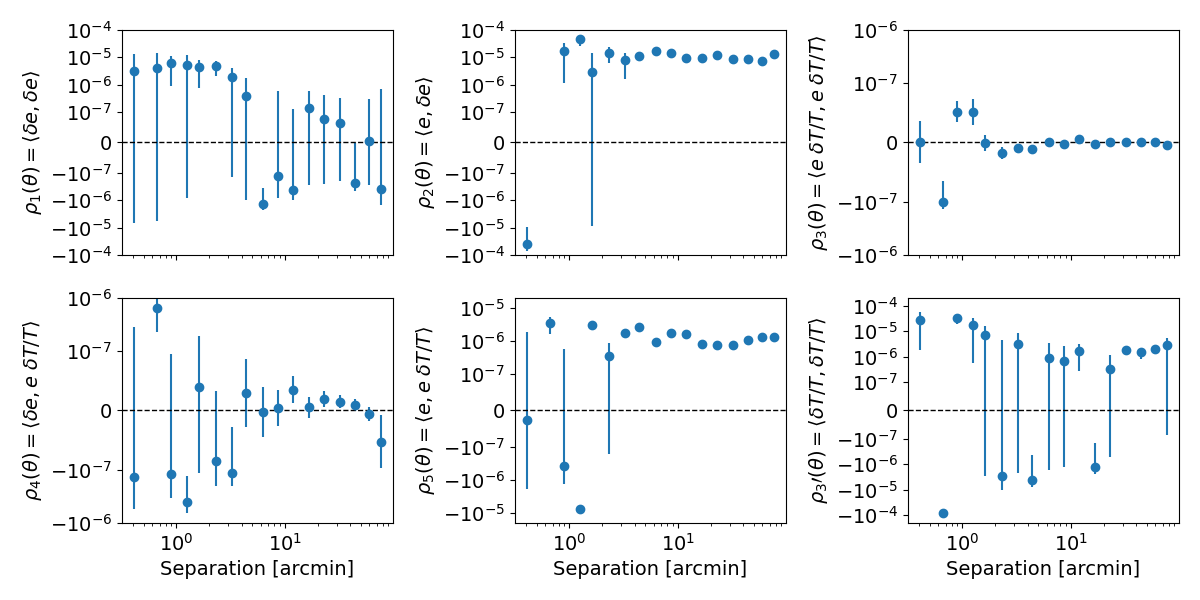
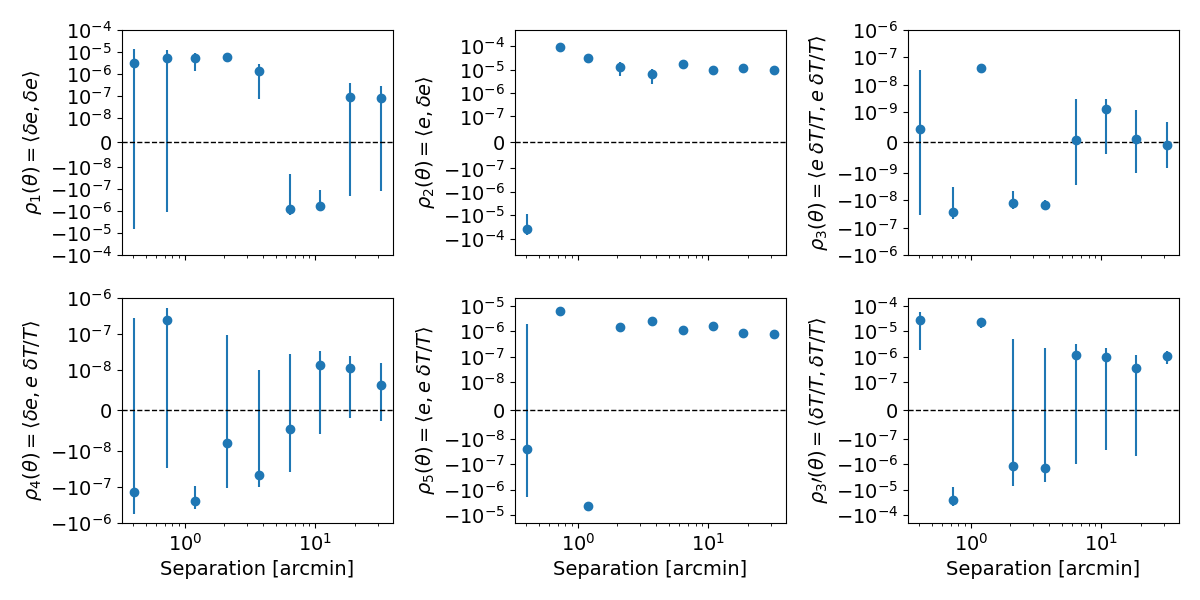
rho-statistics discussion

diff --git a/SITCOMTN-161.tex b/SITCOMTN-161.tex
@@ -189,9 +189,13 @@ Figure~{\ref{fig:res_profile}} shows the corresponding binned radial profile (an
 
 
 \subsection{PSF rho-statistics}
-The $\rho$-statistics \citep{2010MNRAS.404..350R, 2016MNRAS.460.2245J} are a set of two-point correlation functions involving PSF ellipticity and size residuals. They quantify spatially-correlated errors in PSF modeling and contributions from PSF leakage, that yield additive biases to the shear estimation. We use the LSST Science Pipelines \code{analysis\_tools}\footnote{\url{https://pipelines.lsst.io/v/daily/modules/lsst.analysis.tools}} implementation to compute the $\rho$-statistics, which internally relies on the TreeCorr software package \citep{2015ascl.soft08007J} for the correlation function calculations. The definitions of the $\rho$-statistics as calculated by \code{analysis\_tools} are documented in the LSST science pipelines and include the $\rho_1$ to $\rho_5$ originally introduced by \citet{2010MNRAS.404..350R, 2016MNRAS.460.2245J}, as well as $\rho_{3^\prime}$ defined in the context of cluster analysis by \citet{2015MNRAS.449.2219M}.
+The $\rho$-statistics \citep{2010MNRAS.404..350R, 2016MNRAS.460.2245J} are a set of two-point correlation functions involving PSF ellipticity and size residuals, $\delta e$ and $\delta T$. They quantify spatially-correlated errors in PSF modeling and contributions from PSF leakage, that yield additive biases to the shear estimation. These statistics are particularly relevant to cosmic shear studies and specific requirements have been in this context in the litterature (e.g., \citealp{2018PASJ...70S..25M, 2022PASJ...74..421L} for HSC,  \citealp{2018MNRAS.481.1149Z, 2021MNRAS.504.4312G} for DES). 
 
-We used the set of reserved stars to calculate the rho statistics in the $i$-band, and display the results in Figure~\ref{fig:rho_stat}.
+We use the LSST Science Pipelines \code{analysis\_tools}\footnote{\url{https://pipelines.lsst.io/v/daily/modules/lsst.analysis.tools}} implementation to compute the $\rho$-statistics, which internally relies on the TreeCorr software package \citep{2015ascl.soft08007J} for the correlation function calculations. The definitions of the $\rho$-statistics as calculated by \code{analysis\_tools} are documented in the LSST science pipelines and include the $\rho_1$ to $\rho_5$ originally introduced by \citet{2010MNRAS.404..350R, 2016MNRAS.460.2245J}, as well as $\rho_{3^\prime}$ defined in the context of cluster analysis by \citet{2015MNRAS.449.2219M}.
+
+We used the set of reserved stars to calculate the rho statistics in the $i$-band, up to 40 arcmin (i.e. the region of interest for A360 WL measurement) and display the results in Figure~\ref{fig:rho_stat}. We consider the Y1 and Y3 HSC requirements for cosmic shear (see Figure~26 in \citealp{2022PASJ...74..421L}) as a first point of comparison to the $\rho_1$ to $\rho_5$-statistics computed here, noting that cluster lensing would generally be less demanding that cosmic shear because of the order of magnitude larger signal we expect. 
+
+
 
 \begin{figure}
 \centering
@@ -199,9 +203,8 @@ We used the set of reserved stars to calculate the rho statistics in the $i$-ban
 \caption{The various $\rho$-statistics correlations as a function of separation, as produced by the Rubin \code{AnalysisTools} software.\label{fig:rho_stat}}
 \end{figure}
 
+In the field of A360, with this commissioning data set, we find that $\rho_1$ and $\rho_2$ are typically at the level of the Y1 HSC cosmic shear requirements, while $\rho_3$, $\rho_4$, and $\rho_5$ already fulfill the more stringent HSC Y3 requirements \footnote{$\rho_1$, $\rho_2$ and $\rho_{3^\prime}$ are also well below the tolerances estimated in the early work of \citet{2015MNRAS.449.2219M} to measure cluster WL signals with the DES science verification data.}. We are therefore confident that the corresponding additive biases would be sufficiently low for the WL analysis of A360\footnote{Figure~26 in \citet{2022PASJ...74..421L} used as comparison started from 3~arcmin only, and so more specific cluster-related considerations may be needed for the smaller scales down to which we measure cluster weak lensing.}.
 
-
-{\color{red} TODO: describe and conclude on rho-stat}
 
 % For this cluster, the size scale is a few arcminutes. In the $\rho_2$ plot, we see that the PSF shape modeling bias (square root of $\rho_2$) is $\lesssim 10^{-3}$ at the cluster length scale that we are interested in. We note that the typical shear is $\sim 3\times10^{-2}$ (see Figure~\ref{fig:shear_profile}). Thus, the PSF modeling bias is $\sim <0.3/3=10$, i.e. one order of magnitude lower than the shear. This is consistent with our previous conclusion, which means the bias is sufficiently small in our shear measurement.
 
